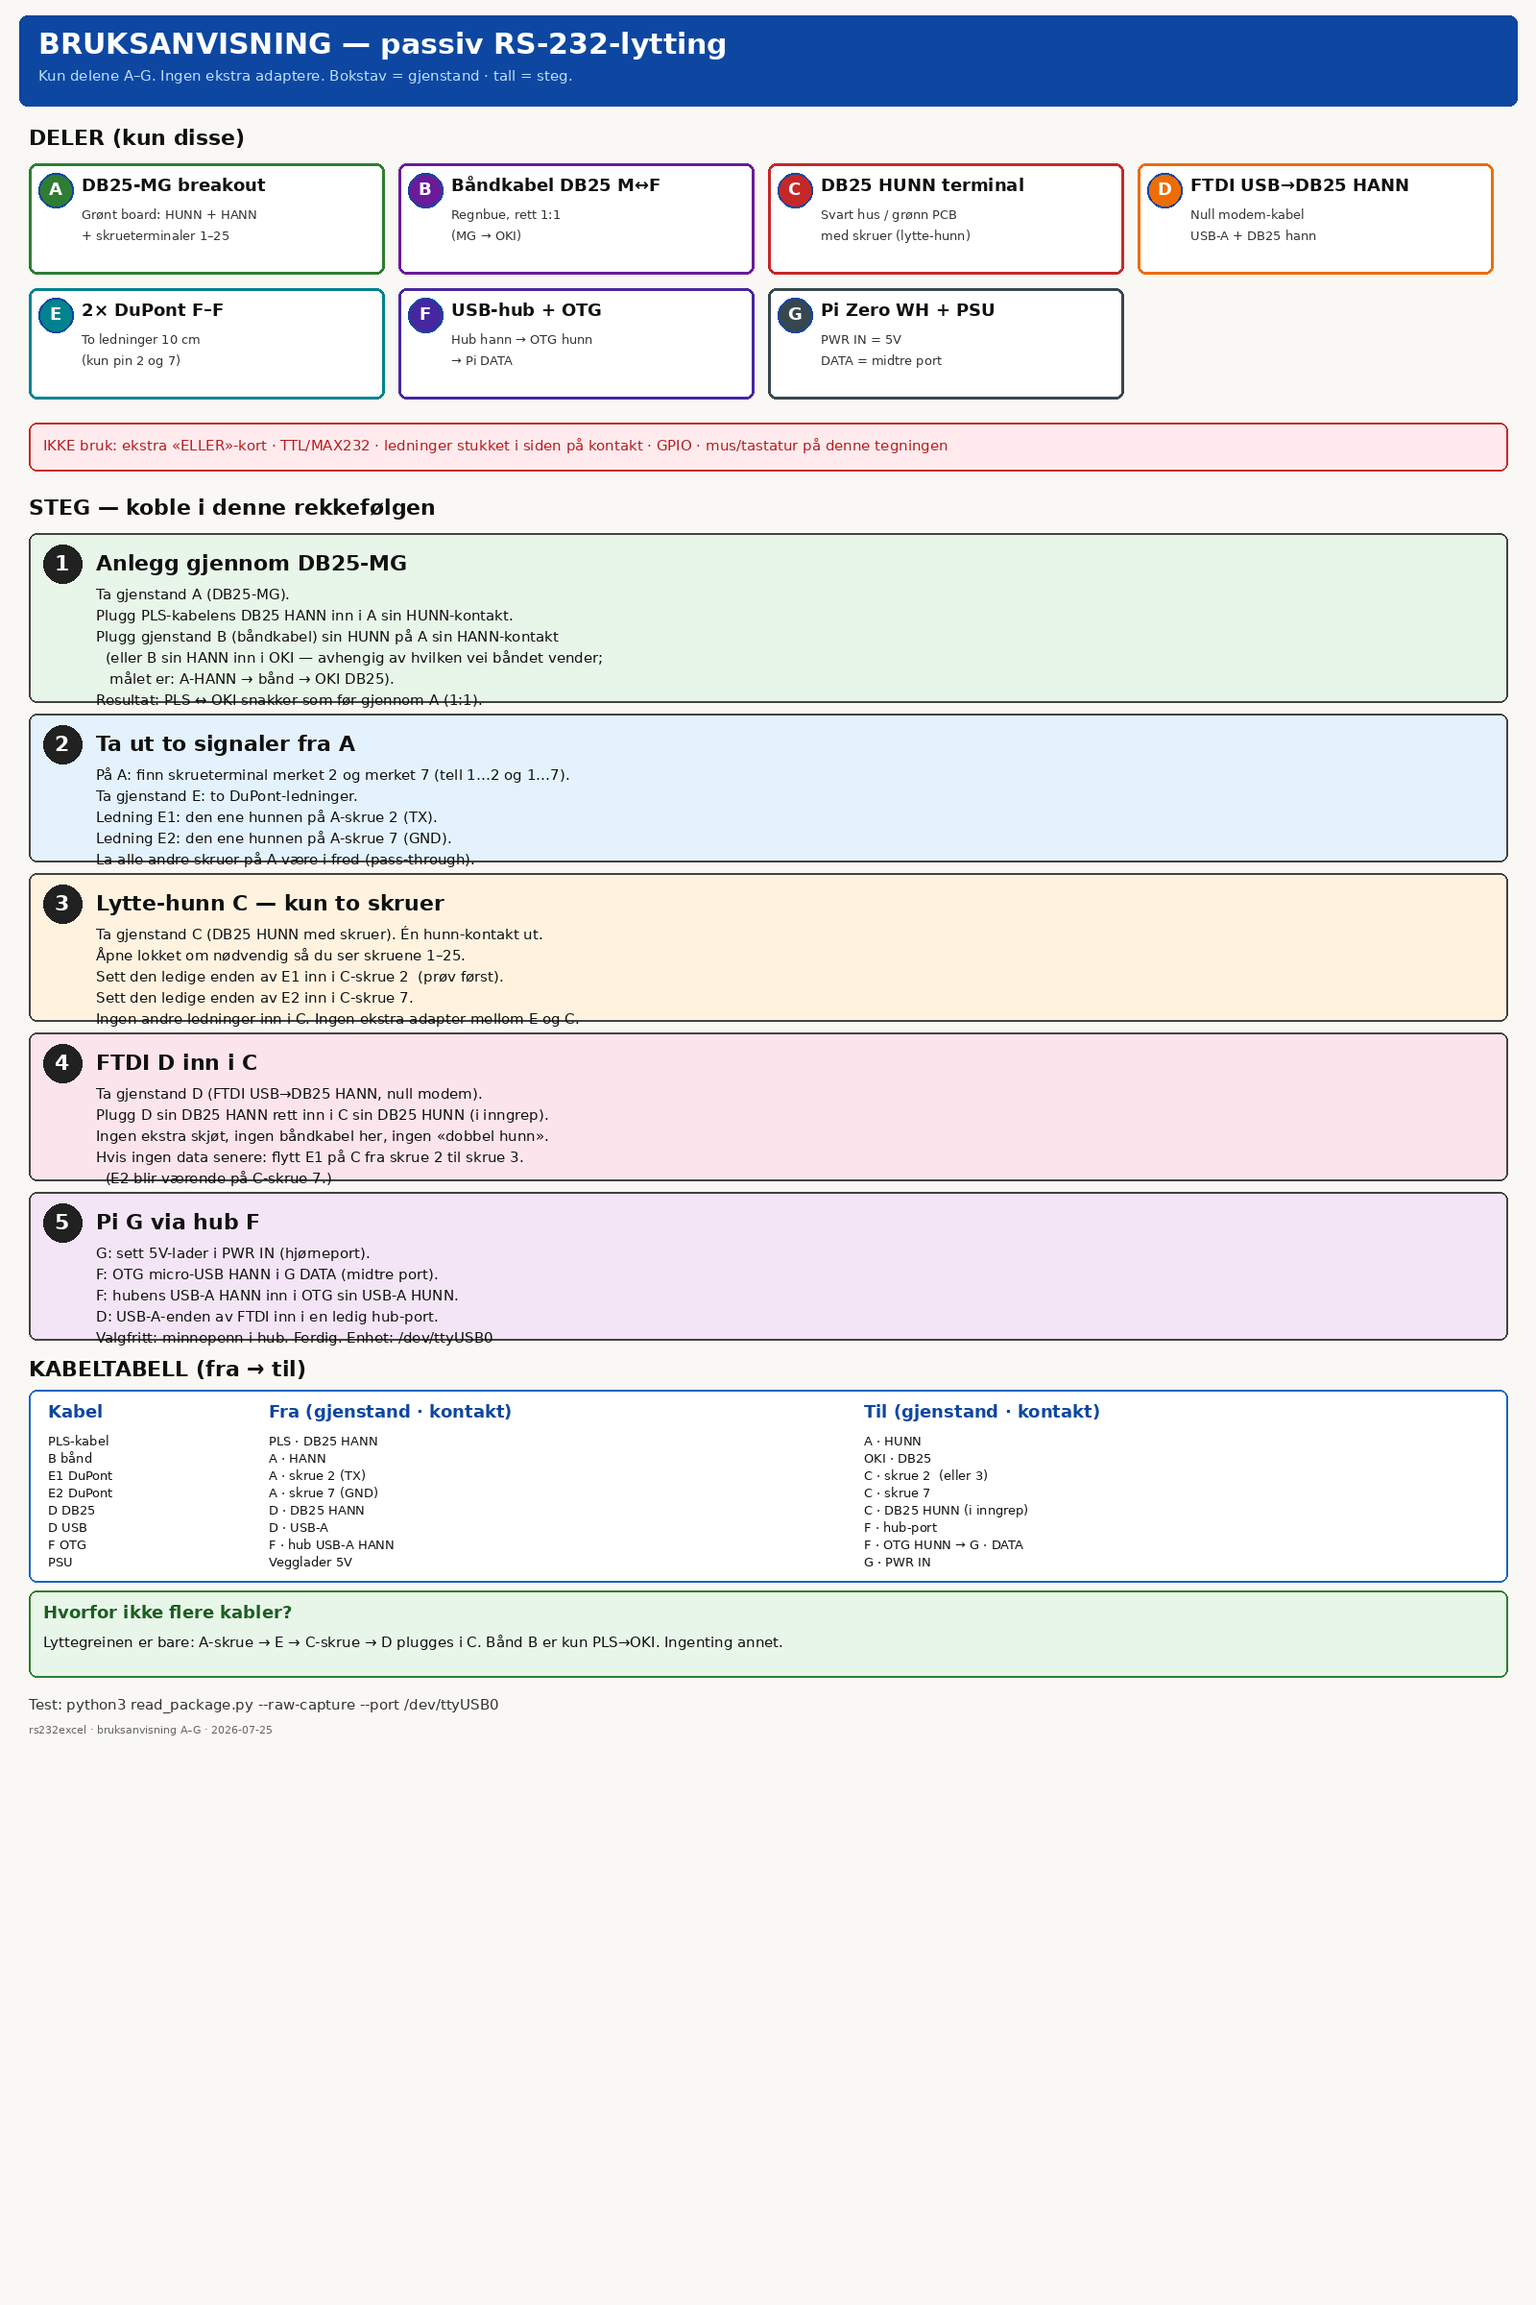
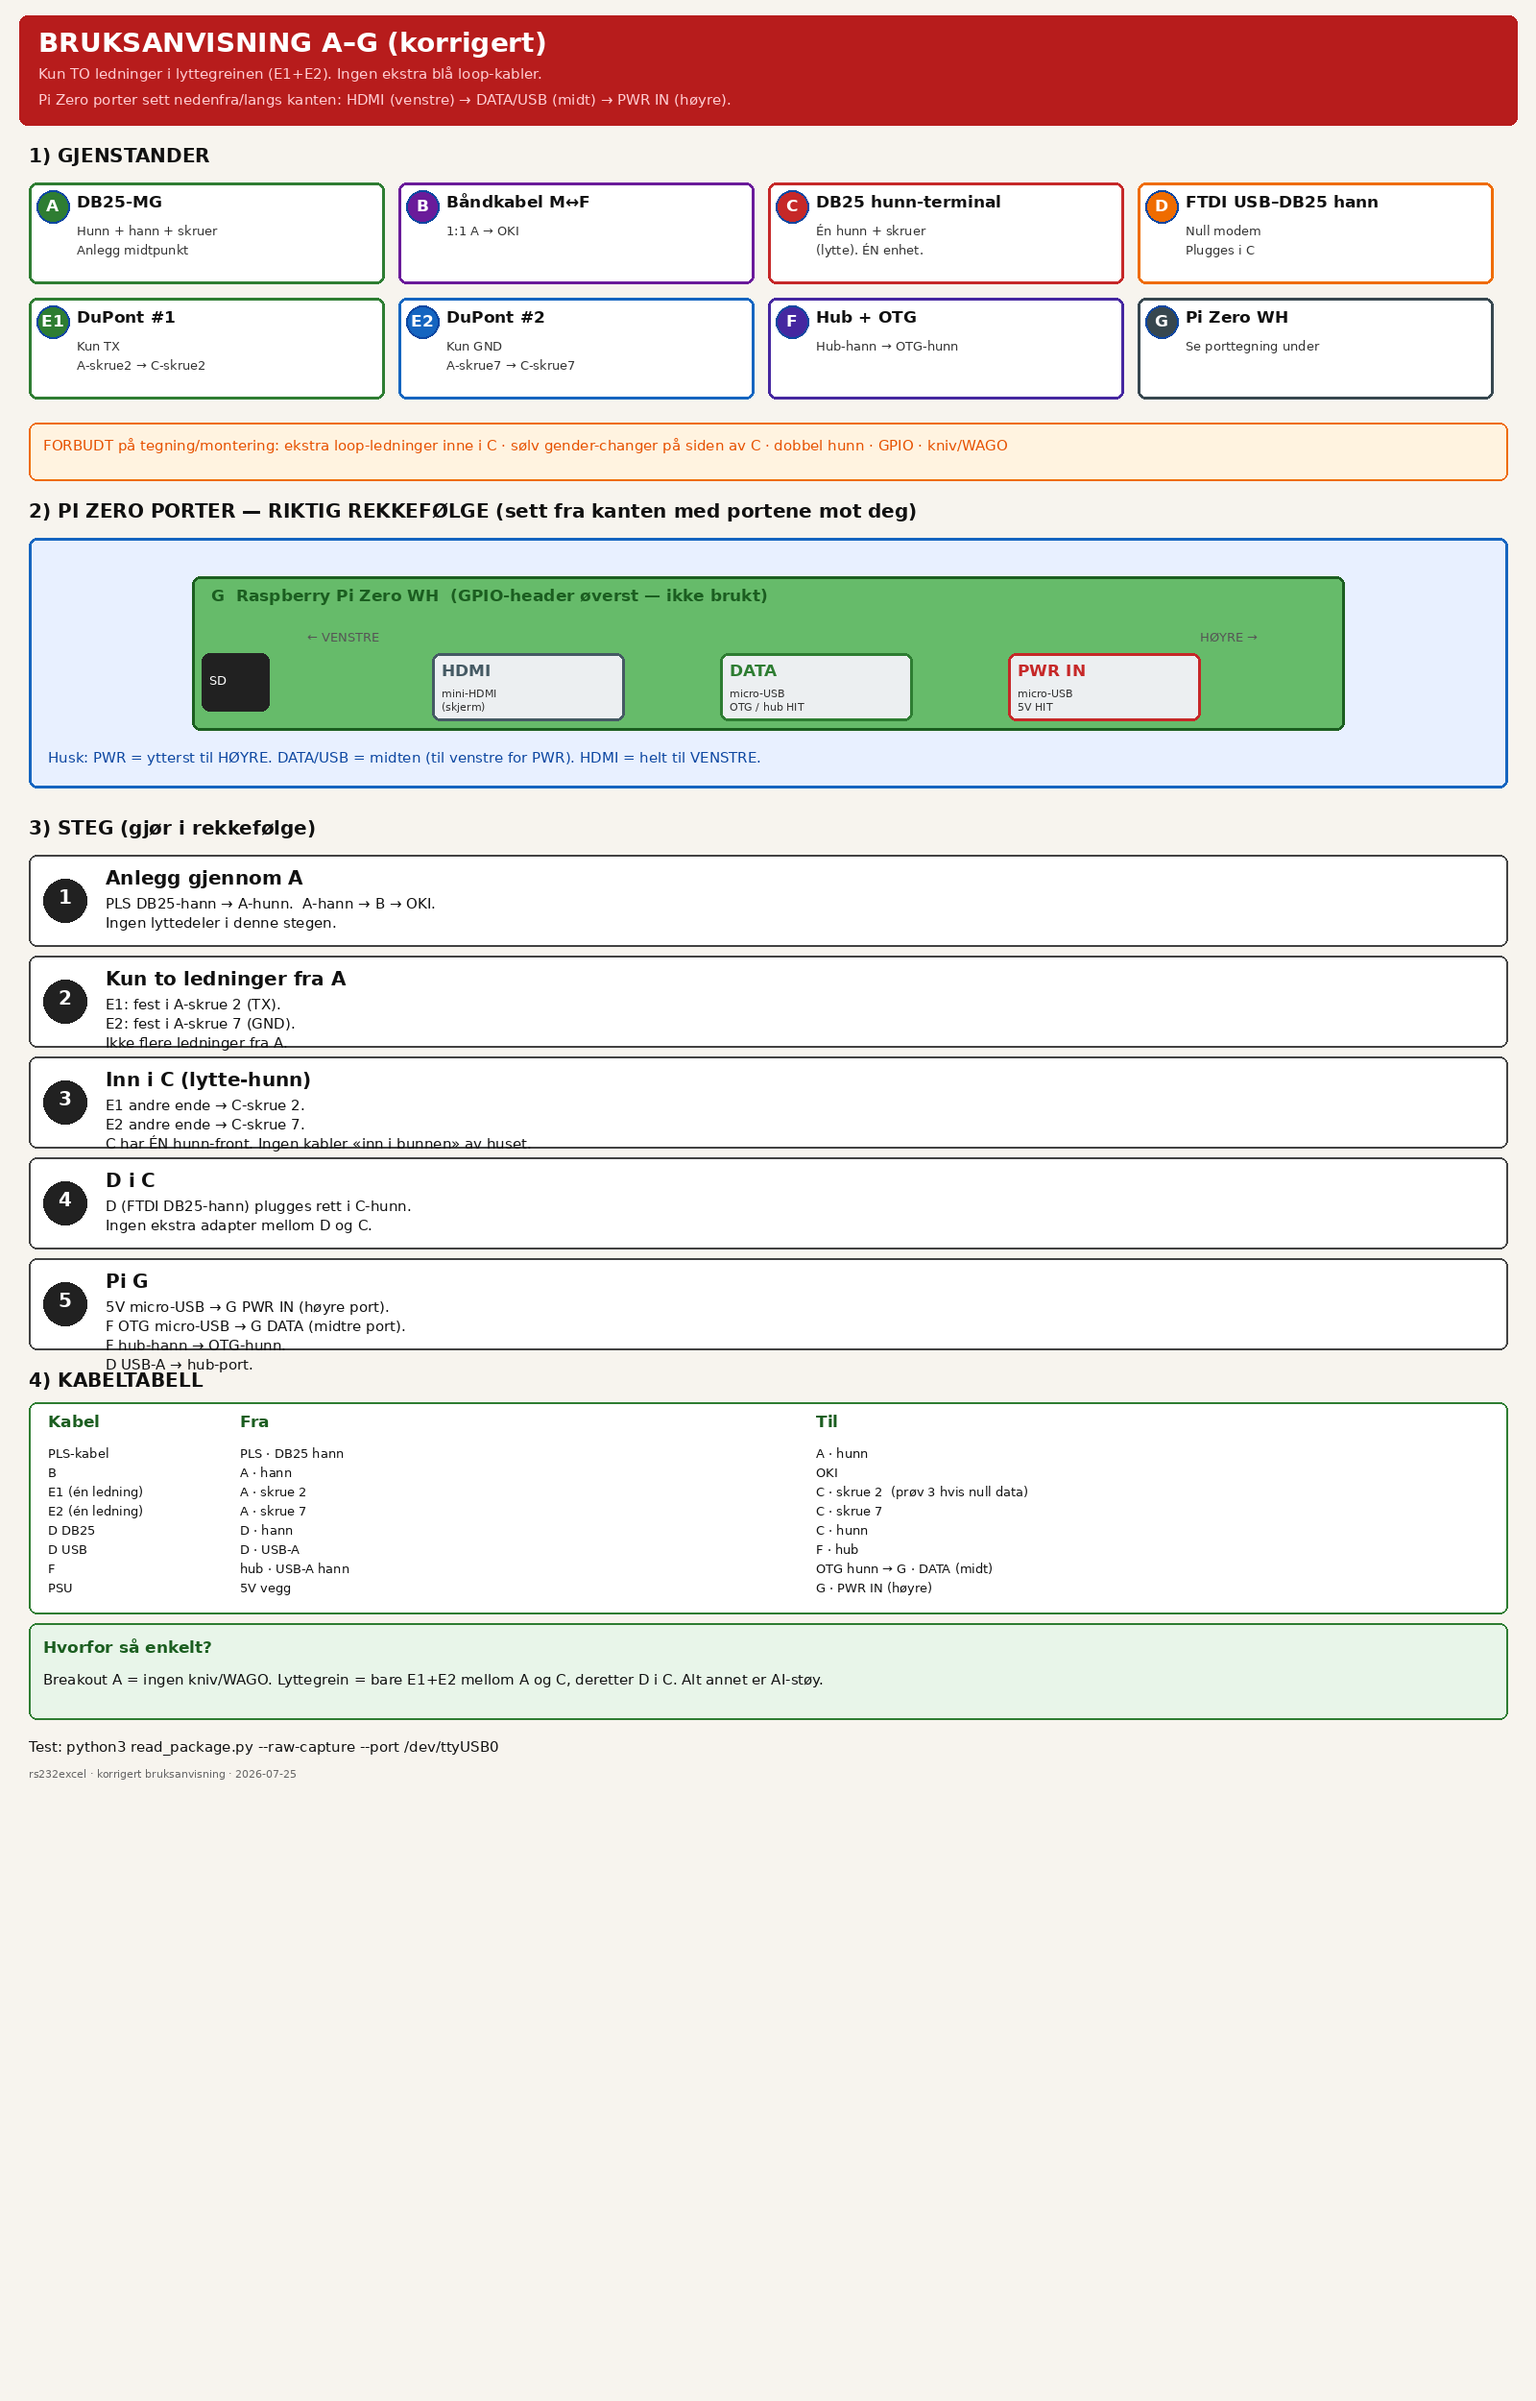
Bruksanvisning: kun E1+E2, Pi PWR til høyre / DATA midt
Fjerner ekstra loop-kabler. Porter: HDMI · DATA · PWR IN.

diff --git a/docs/no/wiring.md b/docs/no/wiring.md
@@ -1,45 +1,39 @@
-# Kobling — bruksanvisning
+# Kobling — bruksanvisning A–G
 
-<img src="img/passiv-rs232-tapp.png" width="100%" alt="Bruksanvisning A–G med steg 1–5"/>
+<img src="img/passiv-rs232-tapp.png" width="100%" alt="Bruksanvisning: kun E1+E2, Pi PWR til høyre"/>
 
-<img src="img/bruksanvisning-tapp-foto.png" width="100%" alt="Foto-versjon A–G"/>
+## Gjenstander
 
-## Deler (bokstaver)
+| | Del | |
+|--|-----|--|
+| **A** | DB25-MG | Anlegg: hunn+hann+skruer |
+| **B** | Båndkabel M↔F | A → OKI |
+| **C** | DB25 hunn-terminal | Lytte — én hunn + skruer |
+| **D** | FTDI USB→DB25 hann | Null modem, plugges i **C** |
+| **E1** | Én DuPont | **A**-skrue 2 → **C**-skrue 2 |
+| **E2** | Én DuPont | **A**-skrue 7 → **C**-skrue 7 |
+| **F** | Hub + OTG | Til **G** DATA |
+| **G** | Pi Zero WH | Se porter under |
 
-| | Gjenstand | Hva det er |
-|--|-----------|------------|
-| **A** | DB25-MG | Hunn + hann + skruer 1–25 (anlegg) |
-| **B** | Båndkabel DB25 M↔F | 1:1 skjøt A → OKI |
-| **C** | DB25 **hunn** terminal | Lytte-hunn med skruer (én hunn-kontakt) |
-| **D** | FTDI USB→DB25 **hann** | Null modem → hub |
-| **E** | 2× DuPont F–F | Kun to ledninger (TX + GND) |
-| **F** | USB-hub + OTG | Hub hann → OTG hunn → Pi DATA |
-| **G** | Pi Zero WH + 5V | PWR IN = strøm · DATA = midt |
+**Ikke:** ekstra loop-kabler i C · gender-changer på siden av C · WAGO · GPIO.
 
-Ingen andre adaptere i lyttegreinen.
+## Pi Zero porter (langs kanten)
+
+Fra **venstre → høyre**:
+
+1. **HDMI** (helt til venstre)  
+2. **DATA / USB** (midt) ← OTG + hub hit  
+3. **PWR IN** (helt til **høyre**) ← kun 5V  
 
 ## Steg
 
-1. **Anlegg:** PLS-hann → **A**-hunn. **A**-hann → **B** → OKI.  
-2. **Tapp:** **E1** på **A**-skrue **2**. **E2** på **A**-skrue **7**.  
-3. **Lytte-hunn:** **E1** → **C**-skrue **2**. **E2** → **C**-skrue **7**. (Ingen andre skruer på C.)  
-4. **FTDI:** **D** DB25-hann rett inn i **C** hunn.  
-5. **Pi:** 5V i **G** PWR IN. **F** OTG i **G** DATA. **D** USB-A i hub.
+1. PLS-hann → **A**-hunn. **A**-hann → **B** → OKI.  
+2. **E1** i **A**-skrue **2**. **E2** i **A**-skrue **7**.  
+3. **E1** → **C**-skrue **2**. **E2** → **C**-skrue **7**. Stopp.  
+4. **D**-hann rett i **C**-hunn.  
+5. 5V → **G PWR IN** (høyre). **F** OTG → **G DATA** (midt). **D** USB → hub.
 
-Null data? Flytt **E1** på **C** fra skrue 2 til skrue **3**.
-
-## Kabeltabell
-
-| Kabel | Fra | Til |
-|-------|-----|-----|
-| PLS-kabel | PLS · DB25 hann | **A** · hunn |
-| **B** | **A** · hann | OKI |
-| **E1** | **A** · skrue 2 | **C** · skrue 2 (eller 3) |
-| **E2** | **A** · skrue 7 | **C** · skrue 7 |
-| **D** DB25 | **D** · hann | **C** · hunn |
-| **D** USB | **D** · USB-A | **F** · hub |
-| **F** | hub hann | OTG → **G** DATA |
-| PSU | 5V | **G** PWR IN |
+Null data? Flytt **E1** på **C** fra 2 til **3**.
 
 Test: `python3 read_package.py --raw-capture --port /dev/ttyUSB0`
 

diff --git a/docs/en/wiring.md b/docs/en/wiring.md
@@ -1,9 +1,9 @@
-# Wiring — assembly guide
+# Wiring — parts A–G
 
-See Norwegian lettered guide (source of truth): [docs/no/wiring.md](../no/wiring.md)
+Source of truth (Norwegian lettered guide): [docs/no/wiring.md](../no/wiring.md) · image: [passiv-rs232-tapp.png](../no/img/passiv-rs232-tapp.png)
 
-Parts: **A** DB25-MG · **B** ribbon · **C** female screw breakout · **D** FTDI USB–DB25 null modem · **E** two DuPont · **F** hub+OTG · **G** Pi.
+**A** DB25-MG · **B** ribbon · **C** female screw breakout · **D** FTDI USB–DB25 male null modem · **E1/E2** two DuPont only · **F** hub+OTG · **G** Pi Zero.
 
-Steps: (1) PLC→A→B→OKI (2) E from A screws 2+7 (3) E into C screws 2+7 (4) D male into C (5) D USB→hub→G DATA; 5V→G PWR IN.
+Listen branch = only E1 (A screw 2 → C screw 2) and E2 (A screw 7 → C screw 7), then D into C. No extra loop wires.
 
-Null modem: try C screw 2 first, else 3. GND stays 7.
+Pi Zero ports left→right: **HDMI** · **DATA** (hub/OTG) · **PWR IN** (right, 5V only).
